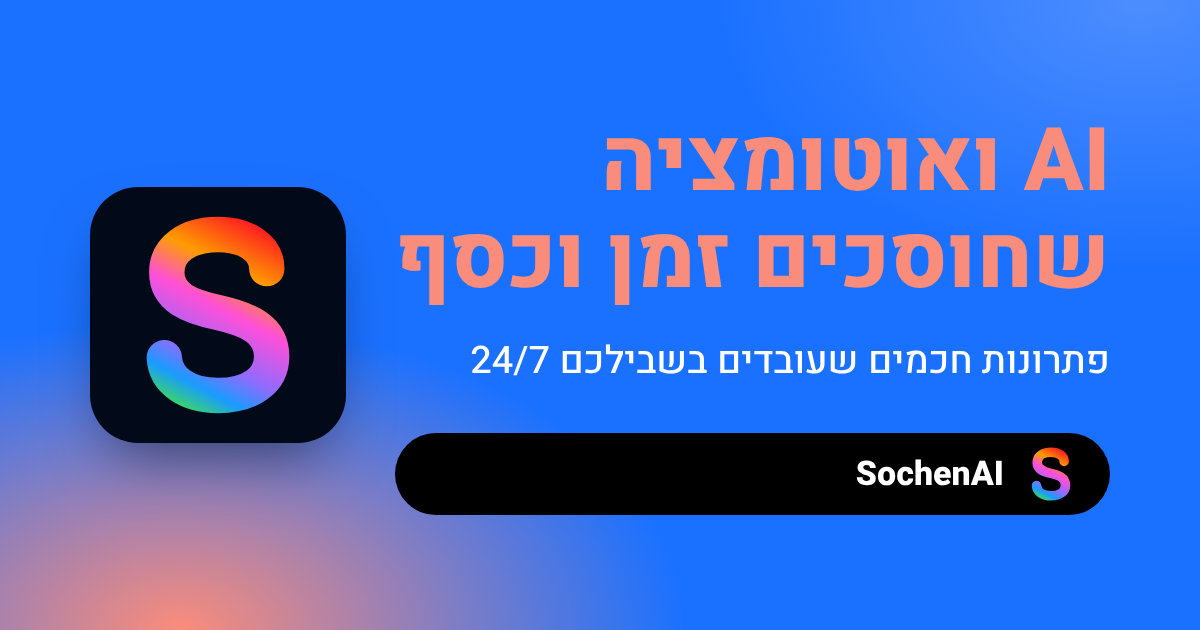
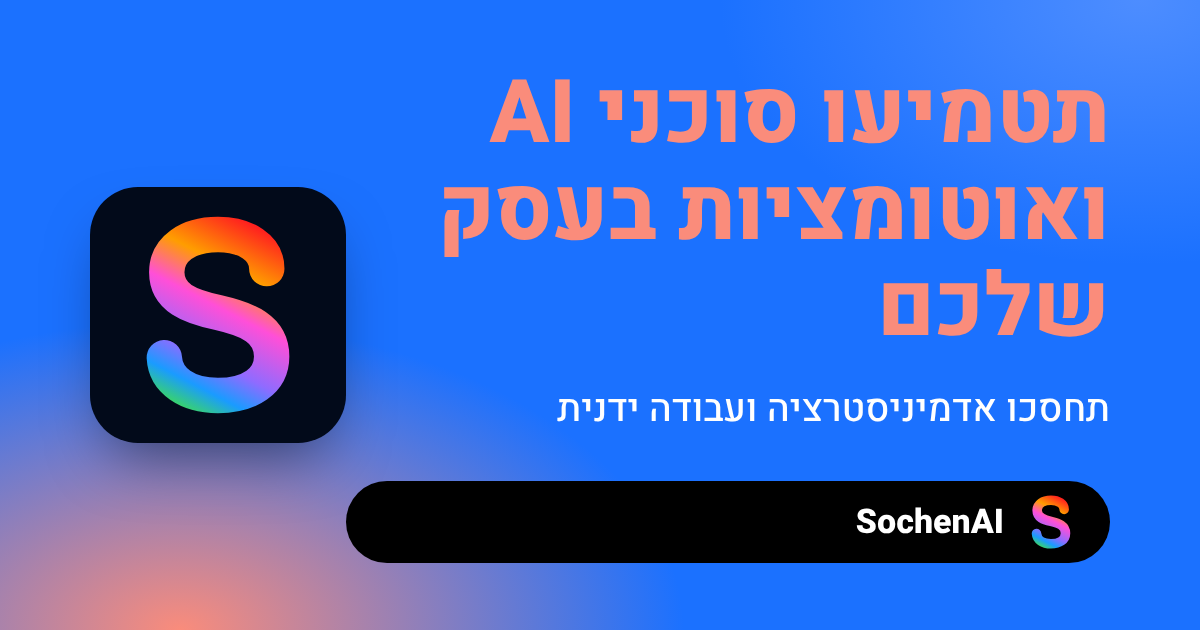
New hero copy, longer FAQ answers, synced meta/llms/og image
Claude-Session: https://claude.ai/code/session_01N24ecn1JLU8gG1oiw8Y7cy

Changed region(s): [[0.3083, 0.1206, 0.925, 0.6032], [0.2775, 0.6333, 0.925, 0.9048]]

diff --git a/site/src/App.tsx b/site/src/App.tsx
@@ -52,15 +52,15 @@ const SITE = 'https://sochen.co/'
 const BRAND = 'SochenAI'
 
 const faqs = [
-  { q: 'מה זה סוכן AI בוואטסאפ?', a: 'סוכן AI בוואטסאפ הוא בוט חכם שמקבל הודעות מלקוחות או מעובדים, מבין מה ביקשו ומבצע פעולה אמיתית: קובע תור, מעדכן מערכת, שולח תזכורת או עונה על שאלה. הוא מתחבר למערכות של העסק, ולכן הוא לא רק עונה אלא גם עושה.' },
-  { q: 'אילו תהליכים אפשר לאוטמט בעסק?', a: 'אפשר לאוטמט כמעט כל תהליך חוזר: הזמנות וקביעת תורים, תזכורות ותשלומים, איסוף ומיון פניות, שליחת עדכונים לצוות ב-Slack, ושיבוץ אנשים לפי תנאים ומגבלות. נתחיל מהתהליך שגוזל לכם הכי הרבה זמן.' },
-  { q: 'אילו פרויקטים כבר נבנו?', a: 'בין הפרויקטים: מערכת לניהול סטודיו לאימון עם שיבוץ עצמי, כרטיסיה, תזכורות בוואטסאפ, מעקב משקלים לכל תרגיל ובוט AI, מערכת למעקב אחרי מתחרים עם התראות ל-Slack, ומערכת לשיבוץ צוותי מילואים דרך אייג׳נט בוואטסאפ עם דשבורד BI. בנוסף נבנו Automated Battlecards לאנשי מכירות, ובוט וואטסאפ לשירות לקוחות שמפנה לעובד אנושי במקרה קיצון, וגם מערכת CRM לדי ג׳יי עם חוזים דיגיטליים ותזכורות.' },
-  { q: 'האם הבוט יכול להעביר שיחה לנציג אנושי?', a: 'כן. בוט וואטסאפ לשירות לקוחות עונה מתוך הידע שנצבר על החברה, זמין תמיד, ובמקרה קיצון מפנה את הפונה לעובד אנושי.' },
-  { q: 'מה זה Automated Battlecards?', a: 'זהו PDF מעודכן תמיד לאנשי מכירות, שמשווה בין החברה שלהם למתחרות ומציג רק את המקומות שבהם החברה שלהם טובה יותר, כדי להגדיל את אחוזי המכירה של צוותי המכירות.' },
-  { q: 'באילו ערוצים אפשר להפעיל סוכן AI?', a: 'סוכן AI לשירות ולמכירות יכול לעבוד באתר, בוואטסאפ ובפייסבוק.' },
-  { q: 'כמה עולה שיחת ההיכרות?', a: 'שיחת ההיכרות ללא עלות. בה מבינים את העסק, בודקים אם הפתרון אפשרי, ואתם מחליטים אם להמשיך.' },
-  { q: 'איך מתחילים לעבוד?', a: 'מתחילים בשיחת היכרות. אחר כך באים אפיון ומחקר, עיצוב ממשק, פיתוח ואימון, אב-טיפוס שאתם בודקים ומאשרים, ולבסוף עלייה לאוויר.' },
-  { q: 'האם אפשר לחבר את הפתרון למערכות שכבר יש לי?', a: 'כן. אפשר לחבר וואטסאפ, Slack, מערכות תשלום, CRM וגיליונות נתונים. אם הכלי שלכם חושף API או אפשרות ייצוא, אפשר לשלב אותו בפתרון.' },
+  { q: 'מה זה סוכן AI בוואטסאפ?', a: 'סוכן AI בוואטסאפ הוא בוט חכם שמקבל הודעות מלקוחות או מעובדים, מבין מה ביקשו ומבצע פעולה אמיתית: קובע תור, מעדכן מערכת, שולח תזכורת או עונה על שאלה. הוא מתחבר למערכות של העסק, ולכן הוא לא רק עונה אלא גם עושה. כך חוסכים עבודה ידנית, והלקוחות מקבלים מענה מיידי בערוץ שהם כבר משתמשים בו, בכל שעה ביממה.' },
+  { q: 'אילו תהליכים אפשר לאוטמט בעסק?', a: 'אפשר לאוטמט כמעט כל תהליך חוזר: הזמנות וקביעת תורים, תזכורות ותשלומים, איסוף ומיון פניות, שליחת עדכונים לצוות ב-Slack, שיבוץ אנשים לפי תנאים ומגבלות, וקליטת מסמכים. המטרה היא להפחית טעויות ידניות ולהאיץ תהליכים. מתחילים בשיחת היכרות, ובה מזהים את התהליך שגוזל לכם הכי הרבה זמן ובודקים אם אפשר לאוטמט אותו.' },
+  { q: 'אילו פרויקטים כבר נבנו?', a: 'בין הפרויקטים שנבנו: מערכת לניהול סטודיו לאימון עם שיבוץ עצמי, כרטיסיה, תזכורות בוואטסאפ, מעקב משקלים ובוט AI; מערכת למעקב אחרי מתחרים עם סיכומי AI והתראות ל-Slack; שיבוץ צוותי מילואים דרך אייג׳נט בוואטסאפ עם דשבורד BI; Automated Battlecards לאנשי מכירות; בוט וואטסאפ לשירות לקוחות; ומערכת CRM לדי ג׳יי עם חוזים דיגיטליים ותזכורות.' },
+  { q: 'האם הבוט יכול להעביר שיחה לנציג אנושי?', a: 'כן. בוט וואטסאפ לשירות לקוחות מחליף עובד ייעודי שיושב כל הזמן ליד הטלפון: הוא מכיר את החברה, עונה מתוך הידע שנצבר עליה, זמין תמיד ותמיד יש לו תשובה. במקרה קיצון, כשצריך אדם, הבוט מפנה את הפונה לעובד אנושי, כך שהלקוח לא נשאר בלי מענה.' },
+  { q: 'מה זה Automated Battlecards?', a: 'Automated Battlecards הם PDF לאנשי מכירות שמתעדכן אוטומטית ומשווה בין החברה שלהם למתחרות. הוא מציג רק את המקומות שבהם החברה שלהם טובה יותר, כך שאיש המכירות מקבל תמיד חומר עדכני למפגש מול לקוח. המטרה היא להגדיל את אחוזי המכירה של צוותי המכירות.' },
+  { q: 'באילו ערוצים אפשר להפעיל סוכן AI?', a: 'סוכן AI לשירות ולמכירות יכול לעבוד באתר, בוואטסאפ ובפייסבוק. הוא עונה מתוך המידע של העסק, מזהה שאלות שחוזרות על עצמן ועובד בכל שעה ביממה, ואפשר לשלב אותו עם מערכות כמו Slack, תשלומים ו-CRM. כך הלקוחות מקבלים מענה באותו ערוץ שבו פנו, בלי שהצוות יצטרך לענות ידנית לכל הודעה.' },
+  { q: 'כמה עולה שיחת ההיכרות?', a: 'שיחת ההיכרות ללא עלות. בשיחה מבינים מה העסק צריך, בודקים שהפתרון אפשרי ומגדירים את הצעדים הבאים. אחריה אתם מחליטים אם להמשיך לשלב האפיון והפיתוח. אפשר להתחיל בהודעה בוואטסאפ עם כמה מילים על העסק ועל התהליך שהכי מעסיק אתכם.' },
+  { q: 'איך מתחילים לעבוד?', a: 'העבודה מתחילה בשיחת היכרות ללא עלות, שבה מבינים מה העסק צריך. אחר כך באים אפיון ומחקר שמגדירים תוכנית עבודה, עיצוב ממשק פשוט ונוח, ופיתוח ואימון של המערכת לפי הנתונים שלכם. בשלב האב-טיפוס אתם בודקים, מתנסים ומאשרים, ורק אז עולים לאוויר והמערכת מתחילה לעבוד בשבילכם.' },
+  { q: 'האם אפשר לחבר את הפתרון למערכות שכבר יש לי?', a: 'כן. אפשר לחבר וואטסאפ, Slack, מערכות תשלום, CRM וגיליונות נתונים. אם הכלי שאתם משתמשים בו חושף API או אפשרות ייצוא נתונים, אפשר לשלב אותו בפתרון. כך המידע זורם אוטומטית בין המערכות במקום שמישהו יעתיק אותו ידנית, וההחלטות מתבססות על נתונים מעודכנים.' },
 ]
 
 function JsonLd() {
@@ -73,7 +73,7 @@ function JsonLd() {
       url: SITE,
       logo: `${SITE}logo.png`,
       image: `${SITE}logo.png`,
-      description: 'AI ואוטומציה שחוסכים זמן וכסף: סוכן AI לשירות ולמכירות, אוטומציה, ניתוח נתונים ב-BI וקליטת מסמכים.',
+      description: 'הטמעת סוכני AI ואוטומציות בעסק, כדי לחסוך אדמיניסטרציה ועבודה ידנית: סוכן AI לשירות ולמכירות, אוטומציה, ניתוח נתונים ב-BI וקליטת מסמכים.',
       inLanguage: 'he',
       areaServed: { '@type': 'Country', name: 'ישראל' },
       telephone: '+972525353259',
@@ -832,11 +832,11 @@ export default function App() {
         </nav>
         <div className="mx-auto grid max-w-5xl items-center gap-8 pt-14 md:grid-cols-[1.2fr_1fr] md:pt-16">
          <div className="text-center md:text-right">
-          <h1 className="text-4xl font-extrabold leading-tight md:text-6xl" style={{ color: CORAL }}>
-            AI ואוטומציה שחוסכים זמן וכסף
+          <h1 className="text-balance text-4xl font-extrabold leading-tight md:text-5xl" style={{ color: CORAL }}>
+            תטמיעו סוכני AI ואוטומציות בעסק שלכם
           </h1>
           <p className="mt-6 text-xl leading-relaxed md:text-2xl">
-            פתרונות חכמים שעובדים בשבילכם 24/7.
+            תחסכו אדמיניסטרציה ועבודה ידנית – ותתמקדו במה שאתם באמת טובים.
           </p>
           <div className="mt-10 flex flex-wrap justify-center gap-3 md:justify-start">
             <a href={wa(OPENING)} target="_blank" rel="noreferrer" className={`${pill} bg-black hover:bg-white hover:text-black`}>לשיחת היכרות ללא עלות ←</a>

diff --git a/site/index.html b/site/index.html
@@ -6,7 +6,7 @@
     <script>document.documentElement.classList.add('js')</script>
 
     <title>SochenAI | פתרונות עסקיים עם סוכני AI</title>
-    <meta name="description" content="AI ואוטומציה שחוסכים זמן וכסף: סוכן AI לשירות ומכירות, אוטומציה של תהליכים, ניתוח נתונים וקליטת מסמכים. שיחת היכרות ללא עלות." />
+    <meta name="description" content="תטמיעו סוכני AI ואוטומציות בעסק: סוכן AI לשירות ומכירות, אוטומציה של תהליכים, ניתוח נתונים וקליטת מסמכים. תחסכו אדמיניסטרציה ועבודה ידנית." />
     <meta name="robots" content="index, follow, max-image-preview:large, max-snippet:-1" />
     <meta name="theme-color" content="#1b71ff" />
     <meta name="google-site-verification" content="-v6ToOE1u1CTTEka1_9JYsvxC1iHx7lpGnWKZ2Wxhgg" />
@@ -24,16 +24,16 @@
     <meta property="og:locale" content="he_IL" />
     <meta property="og:site_name" content="SochenAI" />
     <meta property="og:title" content="SochenAI | פתרונות עסקיים עם סוכני AI" />
-    <meta property="og:description" content="AI ואוטומציה שחוסכים זמן וכסף. פתרונות חכמים שעובדים בשבילכם 24/7." />
+    <meta property="og:description" content="תטמיעו סוכני AI ואוטומציות בעסק שלכם. תחסכו אדמיניסטרציה ועבודה ידנית." />
     <meta property="og:url" content="https://sochen.co/" />
     <meta property="og:image" content="https://sochen.co/og.png" />
     <meta property="og:image:width" content="1200" />
     <meta property="og:image:height" content="630" />
-    <meta property="og:image:alt" content="SochenAI - AI ואוטומציה שחוסכים זמן וכסף" />
+    <meta property="og:image:alt" content="SochenAI - תטמיעו סוכני AI ואוטומציות בעסק שלכם" />
     <meta name="twitter:card" content="summary_large_image" />
     <meta name="twitter:image" content="https://sochen.co/og.png" />
     <meta name="twitter:title" content="SochenAI | פתרונות עסקיים עם סוכני AI" />
-    <meta name="twitter:description" content="AI ואוטומציה שחוסכים זמן וכסף. פתרונות חכמים שעובדים בשבילכם 24/7." />
+    <meta name="twitter:description" content="תטמיעו סוכני AI ואוטומציות בעסק שלכם. תחסכו אדמיניסטרציה ועבודה ידנית." />
 
     <link rel="preconnect" href="https://fonts.googleapis.com" />
     <link rel="preconnect" href="https://fonts.gstatic.com" crossorigin />
